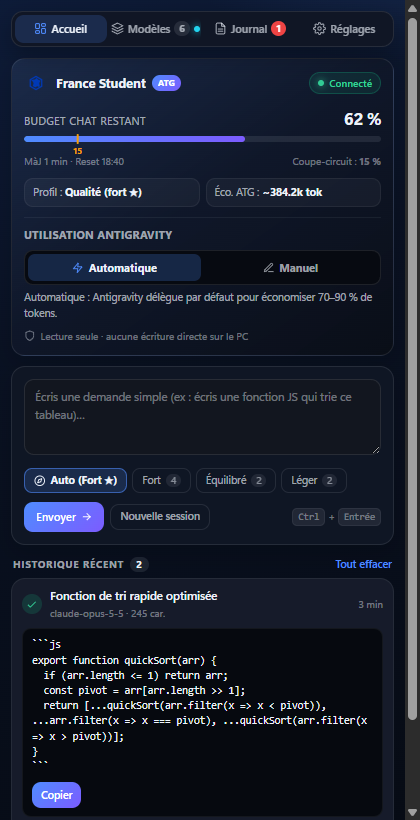
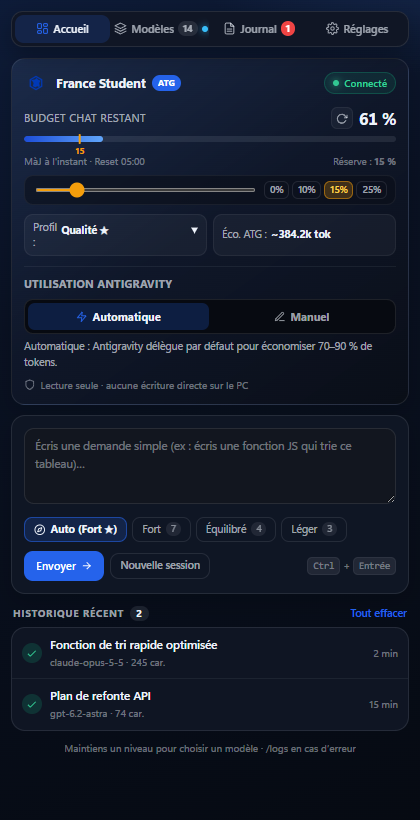
fix: pure blue theme (no purple), France Student-only 14 models, updated screenshots

diff --git a/plugin/sidecars/fs_atg_panel/index.html b/plugin/sidecars/fs_atg_panel/index.html
@@ -17,9 +17,10 @@
       --fs-line: color-mix(in srgb, var(--fs-fg) 10%, transparent);
       --fs-line-soft: color-mix(in srgb, var(--fs-fg) 6%, transparent);
       --fs-input: color-mix(in srgb, var(--fs-fg) 4%, var(--fs-bg));
-      --fs-accent: #4f8cff;
-      --fs-indigo: #7c5cff;
-      --fs-cyan: #22d3ee;
+      --fs-accent: #2563eb;
+      --fs-blue-deep: #1d4ed8;
+      --fs-blue-light: #60a5fa;
+      --fs-cyan: #38bdf8;
       --fs-ok: #10b981;
       --fs-warn: #f59e0b;
       --fs-bad: #ef4444;
@@ -118,7 +119,7 @@
     .hero h1 { font-size: 13px; font-weight: 700; margin: 0; display: flex; align-items: center; gap: 6px; letter-spacing: -.01em; }
     .badge {
       font-size: 8.5px; font-weight: 800; border-radius: var(--fs-pill);
-      padding: 2px 6px; background: linear-gradient(135deg, var(--fs-accent), var(--fs-indigo)); color: #fff; letter-spacing: .05em;
+      padding: 2px 6px; background: var(--fs-accent); color: #fff; letter-spacing: .05em;
     }
     .status-pill {
       display: inline-flex; align-items: center; gap: 5px; font-size: 10px; font-weight: 600;
@@ -146,7 +147,7 @@
     .pct-val { font-size: 17px; font-weight: 800; font-variant-numeric: tabular-nums; color: var(--fs-fg); letter-spacing: -.03em; }
     .gauge-wrap { position: relative; padding-bottom: 12px; cursor: pointer; }
     .gauge { height: 6px; background: color-mix(in srgb, var(--fs-fg) 9%, transparent); border-radius: var(--fs-pill); overflow: hidden; }
-    .gauge > div { height: 100%; width: 0; background: linear-gradient(90deg, var(--fs-accent), var(--fs-indigo)); border-radius: var(--fs-pill); transition: width .45s ease, background .25s; }
+    .gauge > div { height: 100%; width: 0; background: linear-gradient(90deg, var(--fs-blue-deep), var(--fs-blue-light)); border-radius: var(--fs-pill); transition: width .45s ease, background .25s; }
     .gauge.low > div { background: var(--fs-warn); }
     .gauge.crit > div { background: var(--fs-bad); }
     .cutoff-tick { position: absolute; top: -2px; transform: translateX(-50%); display: flex; flex-direction: column; align-items: center; pointer-events: none; }
@@ -180,6 +181,7 @@
       font-size: 10.5px; color: var(--fs-muted);
       display: flex; align-items: center; gap: 4px; min-width: 0;
     }
+    .synth-pill > span { white-space: nowrap; flex-shrink: 0; }
     .synth-pill strong { color: var(--fs-fg); font-weight: 650; }
     .pill-select {
       border: 0; background: transparent; color: var(--fs-fg); font-weight: 650; font-size: 10.5px;
@@ -257,10 +259,10 @@
     kbd { background: color-mix(in srgb, var(--fs-fg) 8%, transparent); border: 1px solid var(--fs-line-soft); border-radius: 5px; padding: 1px 5px; font-size: 9.5px; }
 
     .btn {
-      background: linear-gradient(135deg, var(--fs-accent), var(--fs-indigo));
+      background: var(--fs-accent);
       color: #fff; border: 0; border-radius: 9px; padding: 6px 12px; min-height: 30px;
       cursor: pointer; font-weight: 600; font-size: 11px;
-      display: inline-flex; align-items: center; gap: 5px; transition: filter .15s;
+      display: inline-flex; align-items: center; gap: 5px; transition: filter .15s, background .15s;
     }
     .btn:hover { filter: brightness(1.08); }
     .btn:disabled { opacity: .46; cursor: not-allowed; filter: none; }
@@ -283,7 +285,7 @@
       border-radius: var(--fs-r-sm); padding: 9px 10px; margin-bottom: 7px;
     }
     .job-top { display: flex; align-items: center; gap: 6px; margin-bottom: 7px; }
-    .tag { font-size: 8.5px; font-weight: 800; background: color-mix(in srgb, var(--fs-accent) 70%, #273266); color: #fff; border-radius: var(--fs-pill); padding: 2px 6px; flex-shrink: 0; }
+    .tag { font-size: 8.5px; font-weight: 800; background: var(--fs-blue-deep); color: #fff; border-radius: var(--fs-pill); padding: 2px 6px; flex-shrink: 0; }
     .job-title { font-size: 11.5px; font-weight: 600; flex: 1; overflow: hidden; text-overflow: ellipsis; white-space: nowrap; }
     .model-pill { font-size: 9.5px; background: color-mix(in srgb, var(--fs-fg) 7%, transparent); border-radius: var(--fs-pill); padding: 2px 7px; color: var(--fs-muted); flex-shrink: 0; }
     .x { background: none; border: 0; color: var(--fs-muted); cursor: pointer; padding: 2px; display: grid; place-items: center; }
@@ -337,9 +339,9 @@
     .mc-top { display: flex; align-items: center; gap: 6px; flex-wrap: wrap; }
     .mc-name { font-weight: 650; font-size: 12px; color: var(--fs-fg); }
     .tier-badge { font-size: 9px; font-weight: 750; padding: 1px 6px; border-radius: var(--fs-pill); text-transform: uppercase; letter-spacing: .04em; }
-    .tier-badge.heavy { background: color-mix(in srgb, var(--fs-indigo) 28%, transparent); color: #c4b5fd; }
-    .tier-badge.medium { background: color-mix(in srgb, var(--fs-accent) 20%, transparent); color: #93c5fd; }
-    .tier-badge.light { background: color-mix(in srgb, var(--fs-fg) 10%, transparent); color: var(--fs-muted); }
+    .tier-badge.heavy { background: color-mix(in srgb, var(--fs-accent) 30%, transparent); color: #93c5fd; border: 1px solid color-mix(in srgb, var(--fs-accent) 45%, transparent); }
+    .tier-badge.medium { background: color-mix(in srgb, var(--fs-fg) 10%, transparent); color: var(--fs-fg); }
+    .tier-badge.light { background: color-mix(in srgb, var(--fs-fg) 6%, transparent); color: var(--fs-muted); }
     .new-badge { font-size: 9px; font-weight: 800; padding: 1px 6px; border-radius: var(--fs-pill); background: linear-gradient(135deg, #06b6d4, #10b981); color: #031517; letter-spacing: .04em; }
     .mc-id-row { display: flex; align-items: center; justify-content: space-between; gap: 6px; margin-top: 5px; }
     .mc-id { font-family: ui-monospace, SFMono-Regular, Consolas, monospace; font-size: 10.5px; color: var(--fs-cyan); overflow: hidden; text-overflow: ellipsis; white-space: nowrap; }
